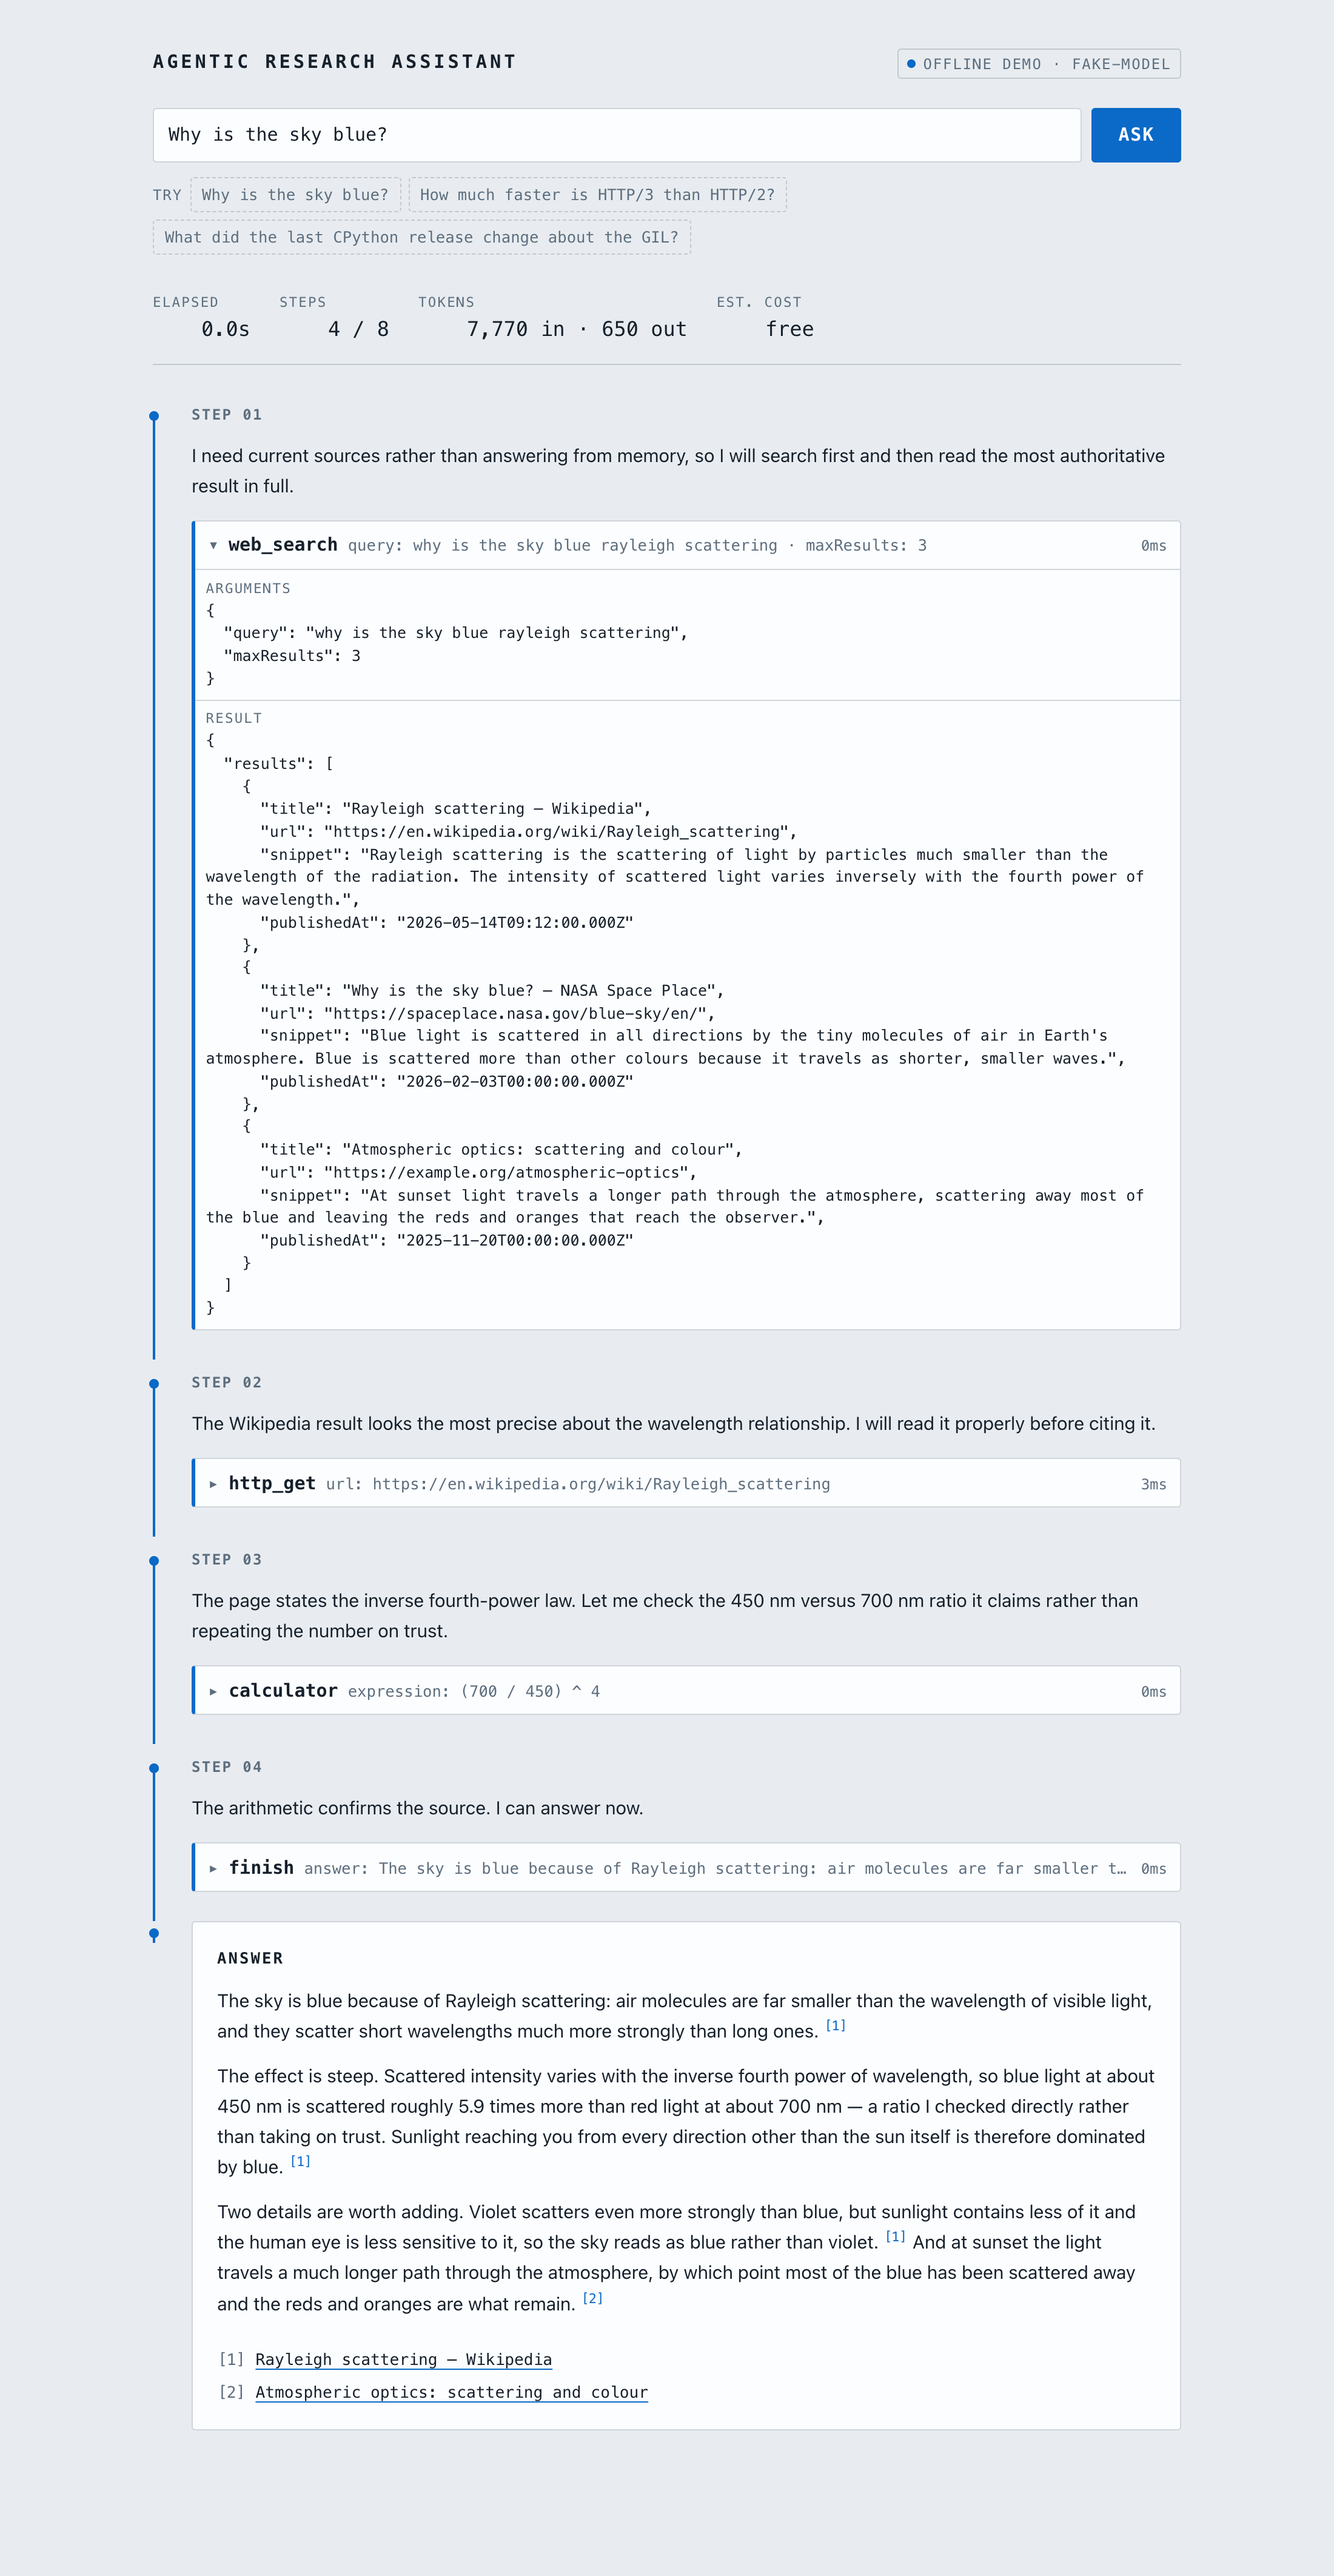
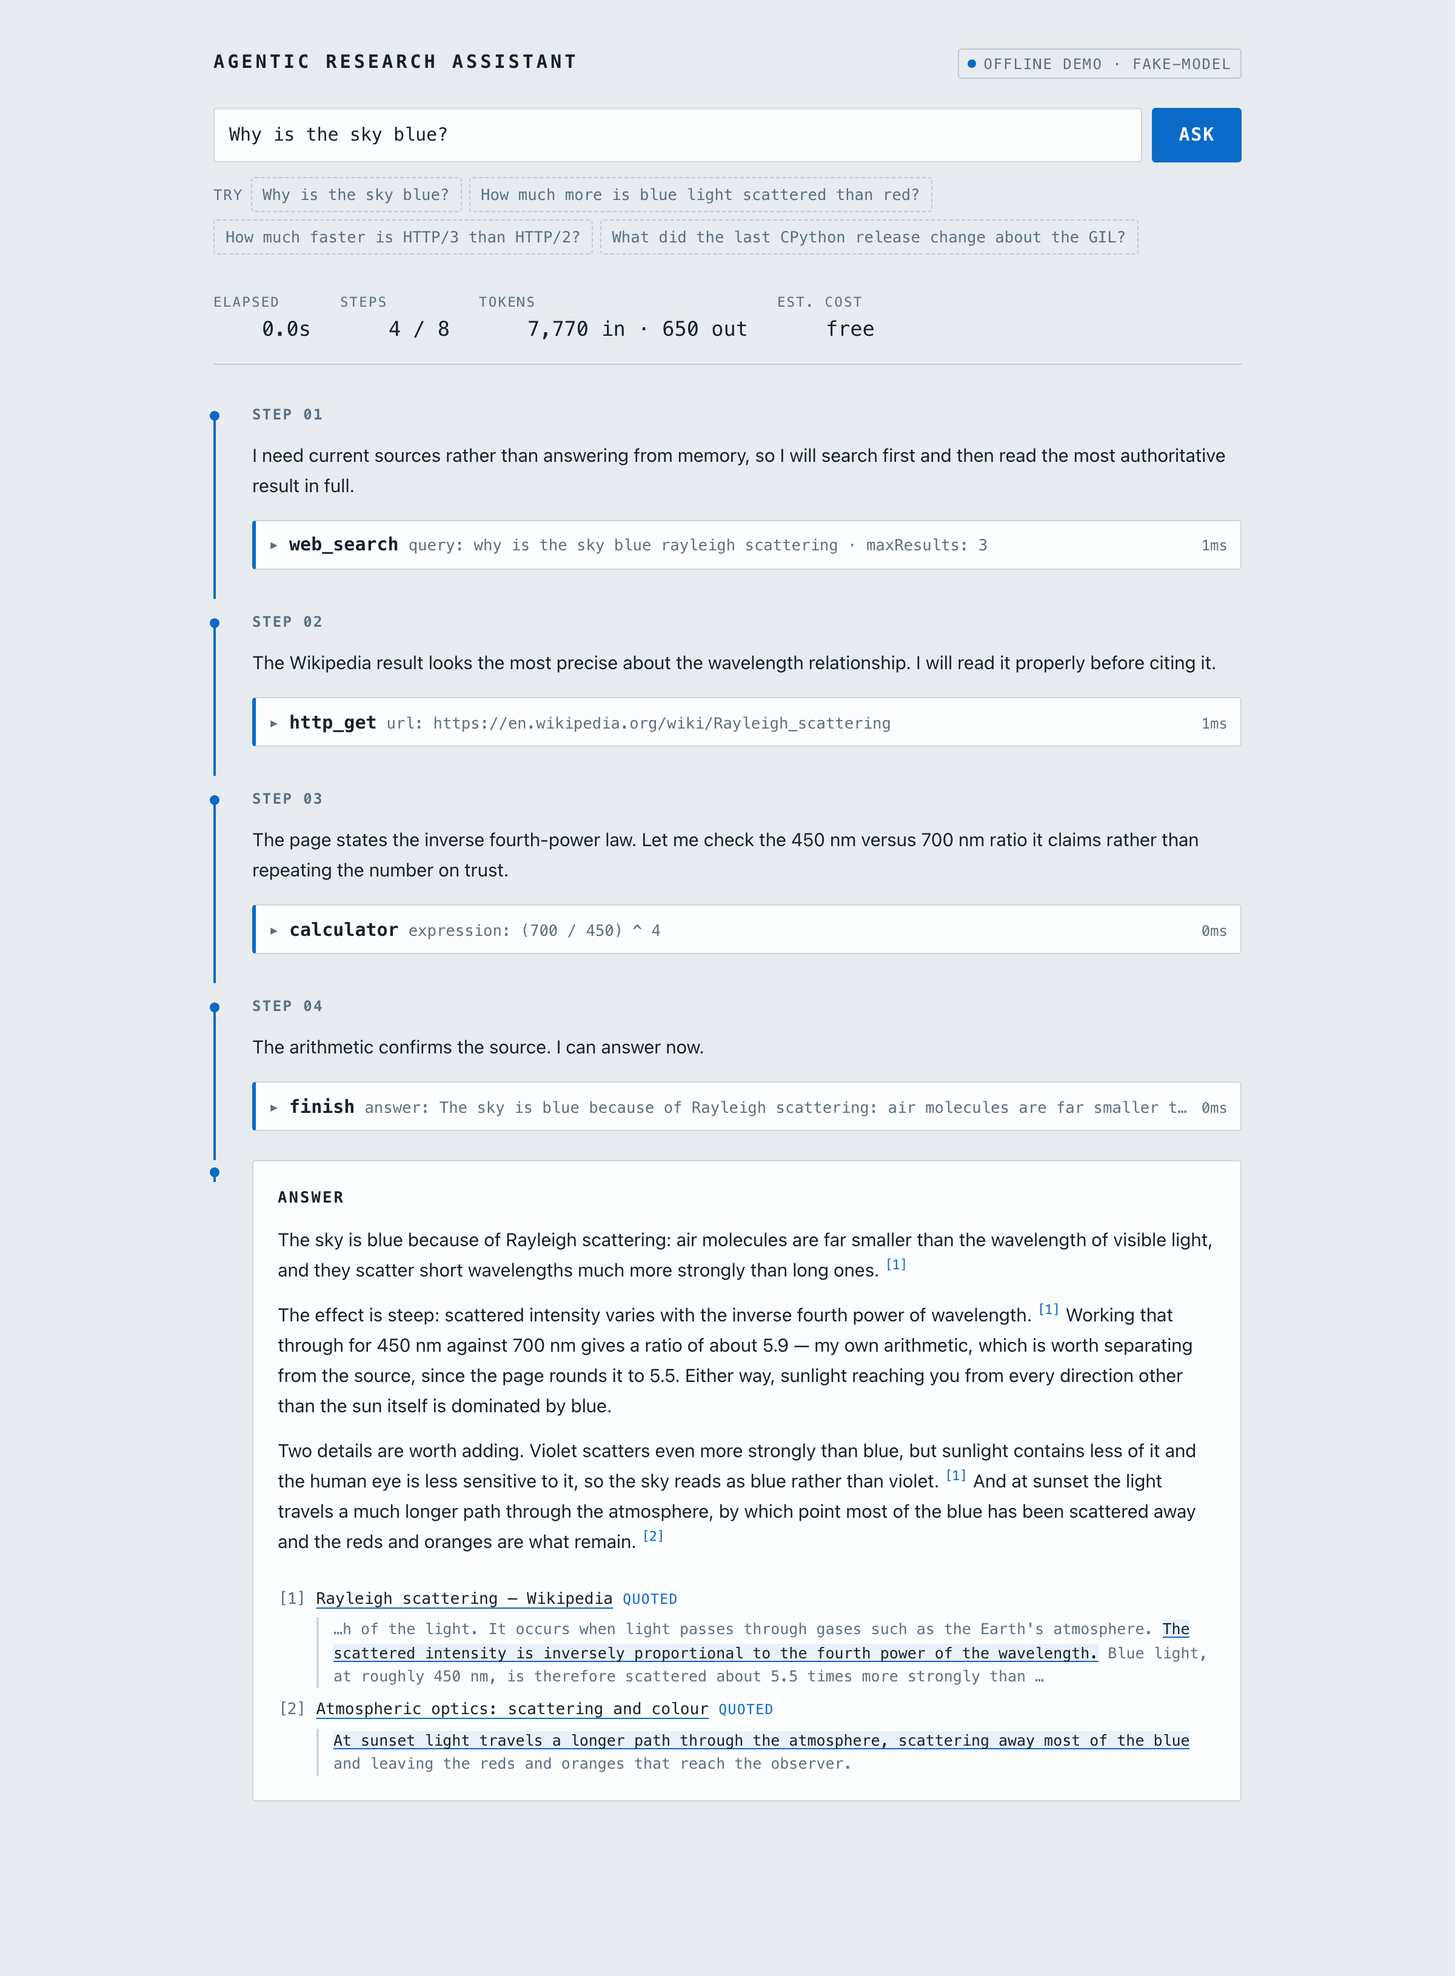
Update documentation and improve citation handling by adding grounding checks and enhancing the README.

diff --git a/README.md b/README.md
@@ -7,14 +7,42 @@ browser as it happens, so the agent's reasoning is something you watch rather th
 something you take on faith.
 
 The interesting part is not the happy path. It is the rails: per-tool timeouts, step
-and wall-clock budgets, SSRF-guarded fetches, schema-validated tool arguments, and a
-citation check that strips any URL the agent did not actually see. **That last one
-is the anti-hallucination check** — a model can write any URL it likes into its
-answer, and this one is cross-checked against the set of URLs the tools really
-returned during the run. Anything that fails is stripped from the answer and
-surfaced in the trace as a warning.
+and wall-clock budgets, SSRF-guarded fetches, schema-validated tool arguments, and
+**a grounding check that holds every citation to the text the tools actually
+returned.**
 
-![The offline demo mid-run: the reason-act timeline, each tool call with its arguments and result, and the cited answer.](docs/demo.png)
+That check has three rungs. The first is the URL: a model can write any link it likes
+into an answer, so each one is cross-checked against the set of URLs the tools really
+returned during the run. The second is the one that matters — every citation carries
+the sentence from that source which supports the claim, and that sentence is matched
+against the text that URL actually returned. A paraphrase does not match. That is
+deliberate: a real source stapled to words it never contained is a worse failure than
+an invented URL, because the link resolves and the page looks right.
+
+The third rung is where that text came from. A search snippet and a page body are
+both strings attached to a URL, so an agent can satisfy the quote check without ever
+opening the source — by quoting the search engine's summary of it. Every tool
+declares what its output is worth as evidence, that provenance rides along with the
+matched text, and a quote found only in a snippet is labelled as one.
+
+Telling the model to read before citing does not survive contact with a snippet that
+already contains the answer: fetching is then pure cost against a stated budget, and
+both models I tried skipped it. So an answer whose quotes all came from snippets is
+handed back once, with the correction, while there is still budget to act on it. One
+correction, then the run stands and the labels carry the rest.
+
+Nothing that fails is deleted. Each citation is labelled with what held up — quoted,
+snippet only, quote not found, source only, unverified — and anything that failed
+puts a warning on the run. A shortened source list would hide the most informative
+thing on the screen.
+
+![The offline demo mid-run: the reason-act timeline, each tool call with its arguments and result, and the cited answer with the passage each citation was matched against.](docs/demo.png)
+
+And the check catching something. Same page, same run, two verdicts — citation [2]
+quotes a real source for a sentence with the agent's own number substituted into it,
+and the passage under citation [1] shows the number the page actually gives:
+
+![Two citations to the same Wikipedia page. The first is marked Quoted, with the matched sentence highlighted in its surrounding text. The second is marked "Quote not found", with the failing quote struck through and a warning naming it.](docs/demo-grounding.png)
 
 ---
 
@@ -29,8 +57,10 @@ pnpm demo          # → http://localhost:8080
 
 That is the whole demo. `DEMO_MODE=offline` replays recorded model turns and
 recorded search results through the **real** agent loop, the real tools, the real
-SSRF guard and the real citation check — offline mode swaps transports, not
-guardrails. Click "Why is the sky blue?" and watch four steps run.
+SSRF guard and the real grounding check — offline mode swaps transports, not
+guardrails. Click "Why is the sky blue?" and watch four steps run, then click
+"How much more is blue light scattered than red?" and watch the grounding check
+catch a real page quoted for a sentence it never contained.
 
 To point it at the real APIs instead:
 
@@ -62,7 +92,7 @@ flowchart TB
     subgraph agent["Agent — no I/O, fully injected"]
         LOOP["loop.ts<br/>AsyncGenerator&lt;AgentEvent, RunTrace&gt;"]
         POL["policy.ts<br/>steps · wall clock · calls per step"]
-        CIT["citations.ts<br/>verify against what tools returned"]
+        CIT["citations.ts<br/>url + quote vs what tools returned"]
         REG["ToolRegistry<br/>Zod in · ToolOutcome out · never throws"]
     end
 
@@ -105,9 +135,7 @@ whole agent testable with a scripted model, and why `DEMO_MODE=offline` needs no
 branch anywhere except `composition.ts`.
 
 Full detail — request lifecycle, sequence diagram, guardrail inventory, alerting —
-is in **[docs/ARCHITECTURE.md](docs/ARCHITECTURE.md)**. The reasoning behind each
-choice is in **[docs/DECISIONS.md](docs/DECISIONS.md)**. The demo script is in
-**[docs/DEMO.md](docs/DEMO.md)**.
+is in **[docs/ARCHITECTURE.md](docs/ARCHITECTURE.md)**.
 
 ---
 
@@ -116,13 +144,15 @@ choice is in **[docs/DECISIONS.md](docs/DECISIONS.md)**. The demo script is in
 | Tool | Input | Guarded by |
 | --- | --- | --- |
 | `web_search` | `{ query, maxResults? }` | Provider port — Tavily live, recorded fixtures offline |
-| `http_get` | `{ url }` | DNS-resolved SSRF check, re-run after every redirect; 2 redirects, 5s, 1 MB, content-type allowlist |
+| `http_get` | `{ url, offset? }` | DNS-resolved SSRF check, re-run after every redirect; 2 redirects, 5s, 1 MB, content-type allowlist. Returns 12k characters at a time with `nextOffset`, so a long page is read on rather than half-read |
 | `calculator` | `{ expression }` | An explicit tokenizer and shunting-yard evaluator. Never `eval`, never `new Function`, never `vm` |
-| `finish` | `{ answer, citations }` | Every citation URL cross-checked against what the tools returned |
+| `finish` | `{ answer, citations }` | Every citation's URL cross-checked against what the tools returned, its quote against the text they returned for it, and that text against how it was obtained |
 
 Adding a fifth is one new file plus one line in `tools/index.ts`. The Zod schema
 that validates the model's arguments is the same schema converted to JSON Schema and
-handed to the model — one definition, no drift.
+handed to the model — one definition, no drift. Each tool also declares what its
+output is worth as evidence (`fetched`, `snippet`, `none`), so the grounding check
+learns about a new source of text without anyone remembering to wire it up.
 
 ---
 
@@ -131,7 +161,7 @@ handed to the model — one definition, no drift.
 | Script | What it does |
 | --- | --- |
 | `pnpm demo` | Offline demo on :8080 — no keys, no network, serves the UI too |
-| `pnpm live` | Same, against the real Anthropic and Tavily APIs, reading `.env.local` |
+| `pnpm live` | Same, against the real Anthropic and Tavily APIs, reading `.env.local`. Restarts on edit |
 | `pnpm dev` | API on :8080 and the Vite dev server on :5173, with HMR |
 | `pnpm build` | Shared contracts, then the API, then the web bundle |
 | `pnpm test` | Every suite — passes with no network and no API key |
@@ -196,9 +226,11 @@ In the order I would actually do it.
    somewhere durable would turn the demo into an evaluation set — the same twenty
    questions, replayed against a new prompt or a new model, diffed.
 4. **A real eval harness.** Right now correctness is "six deterministic scenarios
-   pass". That proves the loop's mechanics, not the agent's judgment. Scoring answer
-   quality and citation precision across a fixed question set is what would let me
-   change the system prompt with any confidence.
+   pass". That proves the loop's mechanics, not the agent's judgment. The grounding
+   check already produces the number a harness would score — the share of citations
+   that reached `quoted` — so the missing piece is a fixed question set and somewhere
+   to put the results. That is what would let me change the system prompt with any
+   confidence.
 5. **Managed identity instead of registry credentials.** The deploy uses the ACR
    admin user because it works in one pass with only Contributor. A system-assigned
    identity with an `AcrPull` role assignment is the right answer and needs a

diff --git a/docs/ARCHITECTURE.md b/docs/ARCHITECTURE.md
@@ -45,7 +45,7 @@ sequenceDiagram
     end
 
     L->>T: invoke("finish", {answer, citations})
-    L->>L: verifyCitations(payload, urls tools returned)
+    L->>L: reviewCitations(payload, evidence tools returned)
     S-->>B: run.completed {answer, citations, warnings}
     B->>API: GET /api/runs/:id
     API-->>B: the full RunTrace
@@ -65,8 +65,9 @@ POST itself would have made all of that the client's problem. (ADR-019.)
 turn. Bad model output is a normal Tuesday, not an exception.
 
 **Citations are verified against what the tools returned**, not against the model's
-say-so. The `finish` payload arrives as validated structured data precisely so this
-check is possible — see [Guardrails](#guardrails).
+say-so — the URL against the set they returned, and the quote against the text they
+returned for it. The `finish` payload arrives as validated structured data precisely
+so this check is possible — see [Guardrails](#guardrails).
 
 ---
 
@@ -78,7 +79,7 @@ apps/api/src/
     loop.ts       runAgent(): AsyncGenerator<AgentEvent, RunTrace> — yields events, returns the trace
     outcome.ts    recordStep / complete / fail — the bookkeeping of stopping
     policy.ts     every budget in one object, plus checkBudget
-    citations.ts  the anti-hallucination check
+    citations.ts  the grounding check: evidence collection, url and quote verification
     prompt.ts     the system prompt, and only the system prompt
     recorder.ts   accumulates the RunTrace as the loop runs
     toolStep.ts   executes one turn's tool calls, in parallel, under the per-step cap
@@ -124,8 +125,8 @@ stops it looping forever" is a file rather than a story.
 
 | Guardrail | Where | What it does |
 | --- | --- | --- |
-| Step budget | `agent/policy.ts` | 8 steps. Checked **before** each step, so the run stops with a partial answer rather than spending another model call. |
-| Wall-clock budget | `agent/policy.ts` | 60s, same check, same place. |
+| Step budget | `agent/policy.ts` | 20 steps. Checked **before** each step, so the run stops with a partial answer rather than spending another model call. |
+| Wall-clock budget | `agent/policy.ts` | 180s, same check, same place — plus the same deadline as an `AbortSignal`, so a model call still writing when the budget runs out is cut off and reported as a spent budget rather than a provider failure. |
 | Tool calls per step | `agent/toolStep.ts` | 3. A model that asks for twenty parallel fetches gets three. |
 | Output token cap | `agent/policy.ts` | Passed to the model on every turn. |
 | Nudge limit | `agent/loop.ts` | A model that answers in prose is told once to use `finish`. Twice and the run ends `no_tool_call` — no third try. |
@@ -133,7 +134,8 @@ stops it looping forever" is a file rather than a story.
 | Argument validation | `tools/registry.ts` | Zod parse before any side effect. Failure is a `tool_result`, not a crash. |
 | SSRF guard | `platform/ssrf.ts` | Scheme allowlist, no credentials in URL, DNS resolved and checked against loopback / private / link-local / unique-local — **re-checked after every redirect**. Max 2 redirects, 5s timeout, 1 MB cap enforced by streaming and aborting, content-type allowlist. |
 | No `eval`, ever | `tools/calculator.ts` | An explicit tokenizer and shunting-yard evaluator. A `process.exit(0)` payload is a parse error, and there is a test that says so. |
-| Citation integrity | `agent/citations.ts` | Every URL in the `finish` payload is checked against the set of URLs tools actually returned this run. Unverifiable citations are stripped and surfaced as a warning. |
+| Citation integrity | `agent/citations.ts` | Every URL in the `finish` payload is checked against the set of URLs tools actually returned this run. |
+| Claim grounding | `agent/citations.ts` | Every citation's quote is matched against the text that URL returned — attributed per URL, never pooled, exact after normalising only what is invisible. Each citation is labelled `quoted` / `unsupported` / `url_only` / `unobserved`; the two failing states carry a warning. Nothing is deleted. |
 | Ingress limits | `http/` | 500-character query, 8 KB body, per-IP rate limit on run creation. |
 | Backpressure | `runs/store.ts` | Bounded store with a TTL. At capacity, `POST /api/runs` is `503` — shedding load rather than growing without bound. |
 | Redaction | `platform/redact.ts` | `authorization` and `x-api-key` never reach the log. API keys are a `Secret` type whose `toString` and `toJSON` return `[redacted]`; reading one takes an explicit `.expose()`. |
